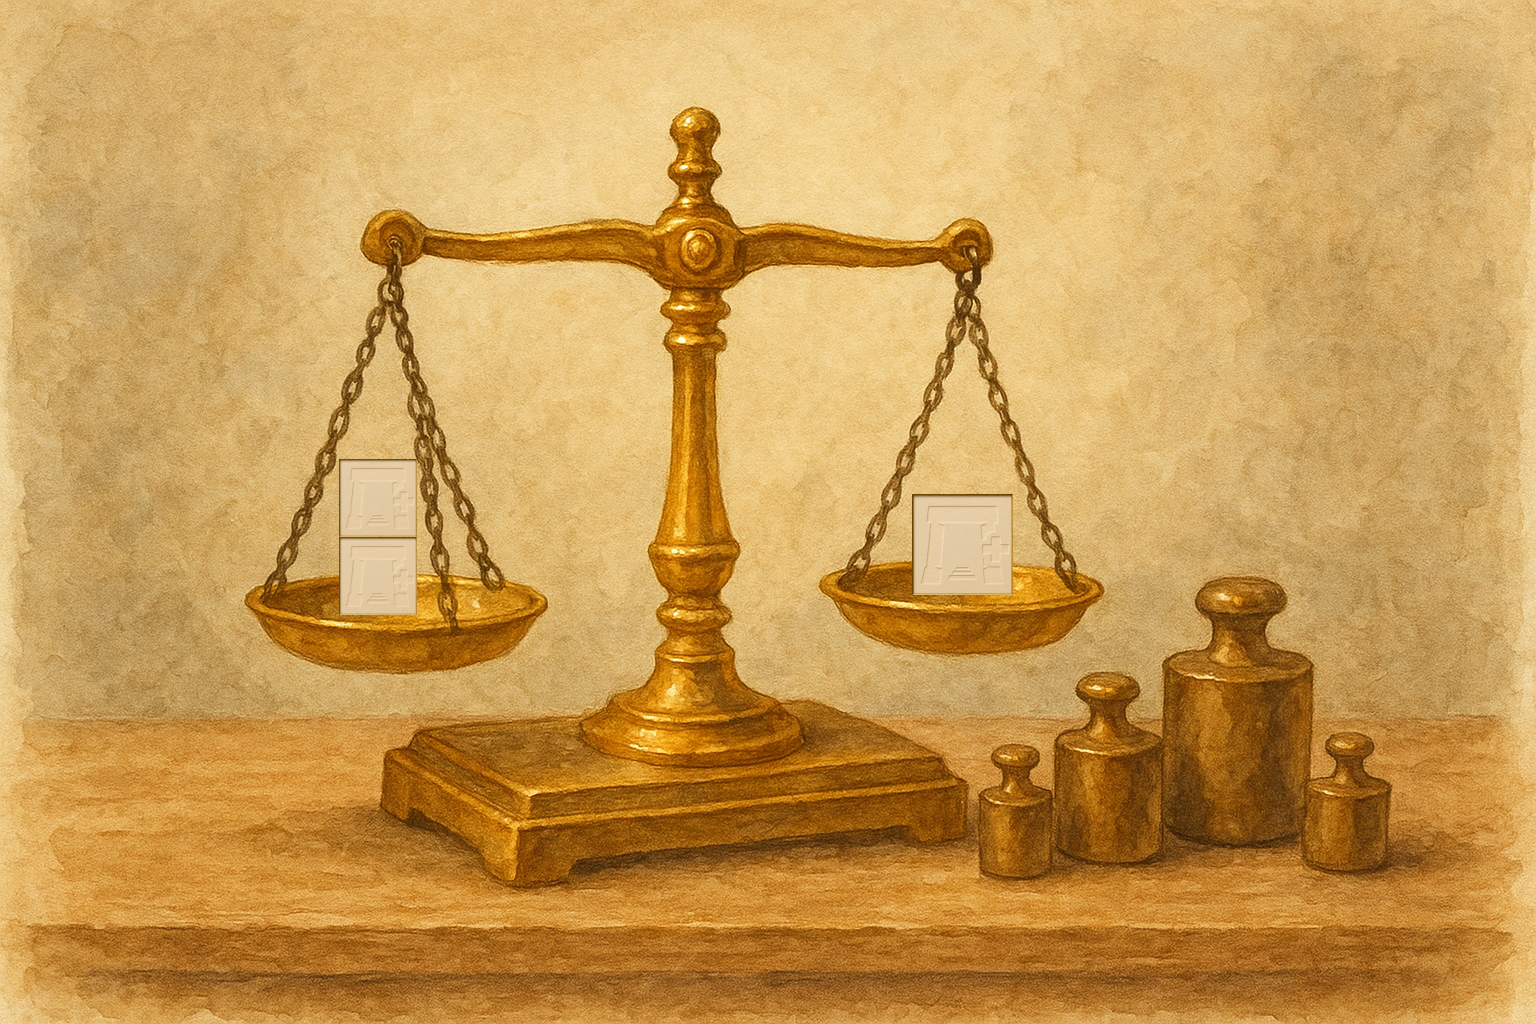
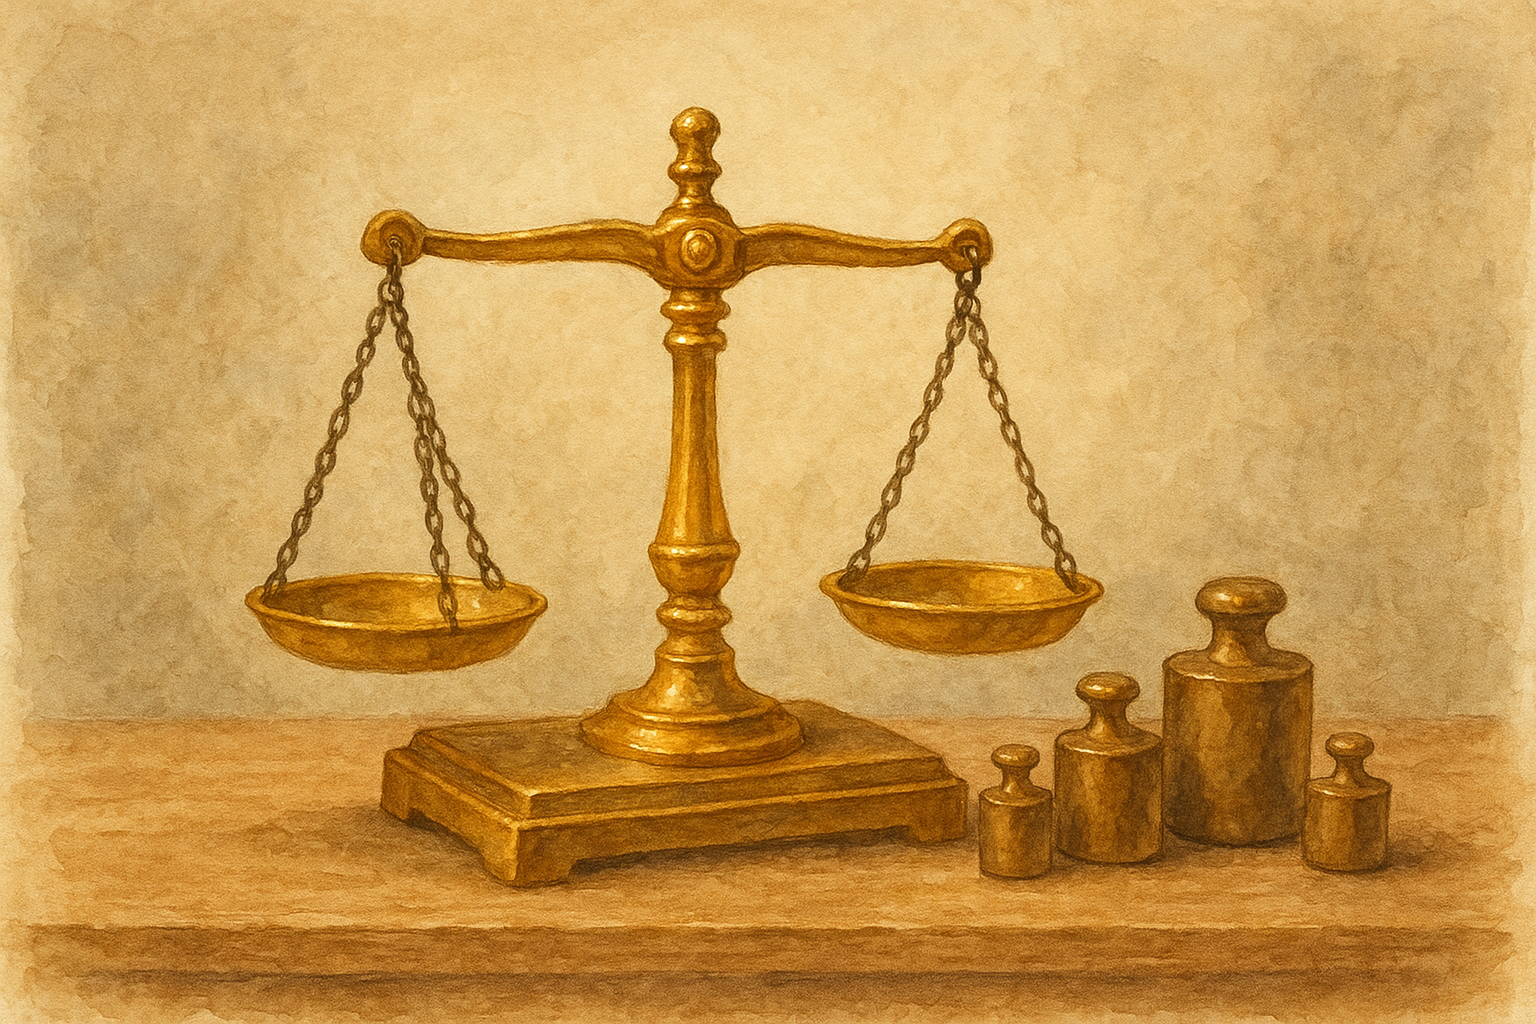
Add part of day 10

Changed region(s): [[0.2188, 0.4375, 0.2812, 0.625], [0.5938, 0.4688, 0.6562, 0.5938]]

diff --git a/backend/content/day10/veteran.de.md b/backend/content/day10/veteran.de.md
@@ -1,0 +1,84 @@
+---
+id: "25-day10-veteran-de"
+version: 1
+release: "2025-12-10T00:00:00Z"
+language: "de"
+mode: "veteran"
+solved:
+  when: "all"
+---
+
+# 10
+
+## Story
+Auf einem Tisch bemerkst du plötzlich eine Waage, von der du sicher bist, dass sie eben noch nicht dort stand.
+Du gehst näher heran und siehst, dass sie von Gewichten umgeben ist, auf denen die Namen einiger Orte eingraviert wurden.
+
+> Lebte ich im Wald oder lebte ich in der Stadt?
+  Ließ ich mich nieder oder suchte ich Abenteuer?
+  Das Gleichgewicht.
+  Ich suchte nach einem Gleichgewicht.
+  Habe ich es gefunden?
+
+## Puzzle
+id: "scales"
+Stelle ein Gleichgewicht zwischen den angegebenen Dungeons her.
+Dungeons mit Versionen I und II wiegen doppelt so schwer wie Dungeons mit nur einer Version.
+
+```yaml puzzle
+type: "drag-sockets"
+background-image: "/assets/25_10_background.png"
+shape: "square"
+
+items:
+  - id: "dungeon-1"
+    label: "Bal Sunnar"
+  - id: "dungeon-2"
+    label: "Selenes Netz"
+  - id: "dungeon-3"
+    label: "Verbannungszellen"
+
+sockets:
+  - id: "left-1"
+    label: ""
+    image: "/assets/25_10_sockets.png"
+    position: { x: 0.19, y: 0.5}
+  - id: "left-2"
+    label: ""
+    image: "/assets/25_10_sockets.png"
+    position: { x: 0.31, y: 0.5}
+  - id: "right"
+    label: ""
+    image: "/assets/25_10_sockets.png"
+    position: { x: 0.63, y: 0.5}
+  
+solution:
+  lists:
+    - id: "dungeons"
+      items: ["dungeon-1", "dungeon-2"]
+  sockets:
+    - socketId: "left-1"
+      listId: "dungeons"
+    - socketId: "left-2"
+      listId: "dungeons"
+    - socketId: "right"
+      itemId: "dungeon-3"
+```
+
+## Wait for: scales
+
+## Story
+> Natürlich, das Grüne Gleichgewicht.
+  Ich lebte stets danach.
+  Ich war Falemon und ein Bosmer.
+  Eine Blume zu pflücken mag für einen Waldelf so schwer sein, wie für andere, einen Drachen zu töten.
+  Nehmt diese Reagenzien als Zeichen dafür, dass alles möglich ist, wenn man ein Gleichgewicht findet.
+
+## Reward
+inventoryId: "day10-reward"
+
+[Liste mit Bal Sunnar, Selenes Netz, Verbannungszellen]
+[Liste mit Eldengrund, Steingarten, Ruinen von Mazzatun]
+[Liste mit Tiefen von Malatar, Unheiliges Grab, Krypta der Herzen]
+[auf Vet außerdem Liste mit Gefängnis der Kaiserstadt, Kanalisation von Wegesruh, Schreckenskeller]
+[auf Vet außerdem Liste mit Falkenring, Stadt der Asche, Gram des Schiffbauers]

diff --git a/backend/content/day10/normal.de.md b/backend/content/day10/normal.de.md
@@ -1,0 +1,34 @@
+---
+id: "25-day10-normal-de"
+version: 1
+release: "2025-12-10T00:00:00Z"
+language: "de"
+mode: "normal"
+solved:
+  when: "all"
+---
+
+# 10
+
+## Story
+Du betrittst die nächste Kammer. Ein Wandgemälde spannt sich über die Wand und erzählt eine Geschichte, an die du dich kaum erinnerst.
+
+![Szene](/assets/25_10_background.png)
+
+## Puzzle
+id: "placeholder"
+Beschreibe, was du auf dem Wandgemälde siehst.
+
+```yaml puzzle
+type: "text"
+placeholder: "Antwort eingeben"
+solution: "a"
+```
+
+## Wait for: placeholder
+
+## Story
+> Geh weiter – diese Erinnerung kehrt zurück, sobald das Rätsel gelöst ist.
+
+## Reward
+inventoryId: "day10-reward"

diff --git a/backend/content/day10/veteran.en.md b/backend/content/day10/veteran.en.md
@@ -1,0 +1,34 @@
+---
+id: "25-day10-veteran-en"
+version: 1
+release: "2025-12-10T00:00:00Z"
+language: "en"
+mode: "veteran"
+solved:
+  when: "all"
+---
+
+# 10
+
+## Story
+You step into the next chamber. A mural spans the wall, telling a tale you can’t quite recall.
+
+![Scene](/assets/25_10_background.png)
+
+## Puzzle
+id: "placeholder"
+Describe what you see in the mural.
+
+```yaml puzzle
+type: "text"
+placeholder: "Enter your answer"
+solution: "a"
+```
+
+## Wait for: placeholder
+
+## Story
+> Keep going—this memory will return when the riddle is solved.
+
+## Reward
+inventoryId: "day10-reward"

diff --git a/backend/content/day10/normal.en.md b/backend/content/day10/normal.en.md
@@ -1,0 +1,34 @@
+---
+id: "25-day10-normal-en"
+version: 1
+release: "2025-12-10T00:00:00Z"
+language: "en"
+mode: "normal"
+solved:
+  when: "all"
+---
+
+# 10
+
+## Story
+You step into the next chamber. A mural spans the wall, telling a tale you can’t quite recall.
+
+![Scene](/assets/25_10_background.png)
+
+## Puzzle
+id: "placeholder"
+Describe what you see in the mural.
+
+```yaml puzzle
+type: "text"
+placeholder: "Enter your answer"
+solution: "a"
+```
+
+## Wait for: placeholder
+
+## Story
+> Keep going—this memory will return when the riddle is solved.
+
+## Reward
+inventoryId: "day10-reward"
